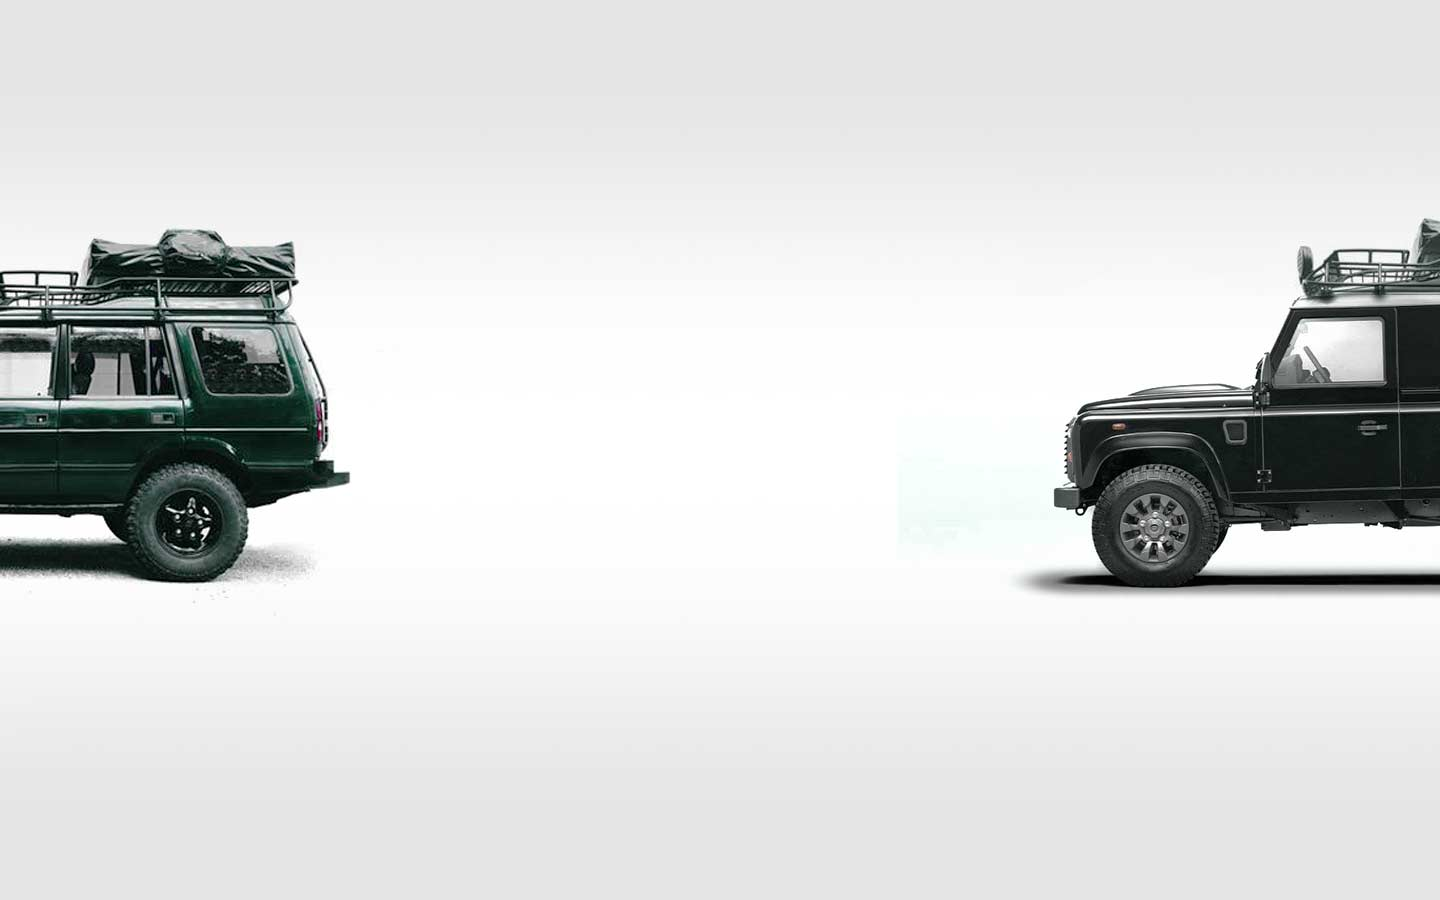
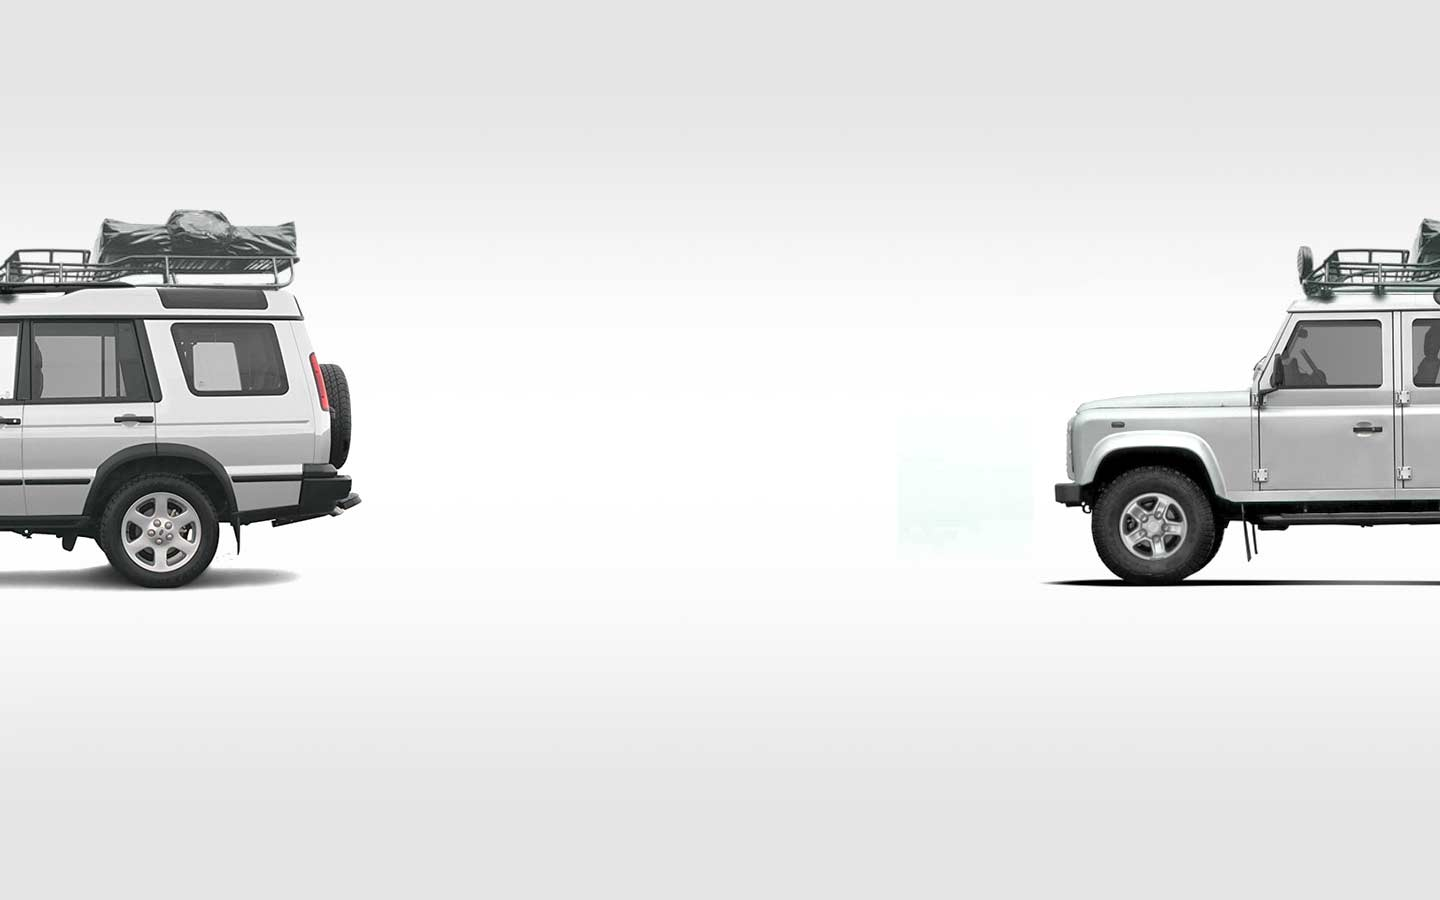
updates photos and prices

Changed region(s): [[0.0, 0.2178, 0.25, 0.6844], [0.6875, 0.3111, 1.0, 0.6844]]

diff --git a/index.html b/index.html
@@ -313,36 +313,46 @@
             
             <div class="row m-t-60">
               <div class="col-sm-3 text-center">
-                <h6 class="block-title hint-text m-b-0 ">LAND ROVER DISCOVERY</h6>
-                <img class="m-t-30 lazy" src="img/lr-disco.jpg" alt="" style="max-width:300px;">
+                <h6 class="block-title hint-text m-b-0 ">LAND ROVER <br />DISCOVERY 4.0 V8 Petrol</h6>
+                <img class="m-t-30 lazy" src="img/lr-disco-b.jpg" alt="" style="max-width:300px;">
                 <div>
-                  <h2 class="font-montserrat inline no-margin"><span class="fs-10">from</span> $180</h2>
+                  <h2 class="font-montserrat inline no-margin"><span class="fs-10">from</span> $200</h2>
                   <a class="btn btn-sm font-montserrat all-caps m-b-10 m-l-10" href="/book">Reserve</a>
                   <h5>Sleeps 2</h5>
-                  <h6>Perfect for more adventurous off-roading but still a very comfortable ride</h6>
+                  <h6>Comfortable and capable with V8 power, lots of fun</h6>
                 </div>
               </div>
               <div class="col-sm-3 text-center">
-                <h6 class="block-title hint-text m-b-0 ">LAND ROVER DEFENDER 90</h6>
-                <img class="m-t-30 lazy" src="img/lr-90b.jpg" alt="" style="max-width:300px;">
+                <h6 class="block-title hint-text m-b-0 ">LAND ROVER<br /> DISCOVERY 2.4 Diesel</h6>
+                <img class="m-t-30 lazy" src="img/lr-disco-c.jpg" alt="" style="max-width:300px;">
+                <div>
+                  <h2 class="font-montserrat inline no-margin"><span class="fs-10">from</span> $220</h2>
+                  <a class="btn btn-sm font-montserrat all-caps m-b-10 m-l-10" href="/book">Reserve</a>
+                  <h5>Sleeps 2</h5>
+                  <h6>Perfect for more adventurous tracks but still a very comfortable ride</h6>
+                </div>
+              </div>
+              <div class="col-sm-3 text-center">
+                <h6 class="block-title hint-text m-b-0 ">LAND ROVER<br /> DEFENDER 90</h6>
+                <img class="m-t-30 lazy" src="img/lr-90c.jpg" alt="" style="max-width:300px;">
                 <div>
                   <h2 class="font-montserrat inline no-margin"><span class="fs-10">from</span> $240</h2>
                   <a class="btn btn-sm font-montserrat all-caps m-b-10 m-l-10" href="/book">Reserve</a>
                   <h5>Sleeps 2</h5>
-                  <h6>Perfect for a couple</h6>
+                  <h6>The classic Defender, short wheel base - perfect for a couple</h6>
                 </div>
               </div>
               <div class="col-sm-3 text-center">
-                <h6 class="block-title hint-text m-b-0 ">LAND ROVER DEFENDER 110</h6>
-                <img class="m-t-30 lazy" src="img/lr-110c.jpg" alt="" style="max-width:300px;">
+                <h6 class="block-title hint-text m-b-0 ">LAND ROVER<br /> DEFENDER 110</h6>
+                <img class="m-t-30 lazy" src="img/lr-110d.jpg" alt="" style="max-width:300px;">
                 <div>
-                  <h2 class="font-montserrat inline no-margin"><span class="fs-10">from</span> $260</h2>
+                  <h2 class="font-montserrat inline no-margin"><span class="fs-10">from</span> $280</h2>
                   <a class="btn btn-sm font-montserrat all-caps m-b-10 m-l-10" href="/book">Reserve</a>
                   <h5>Sleeps 4</h5>
                   <h6>Perfect for a group</h6>
                   </div>
               </div>
-              <div class="col-sm-3 text-center">
+              <!-- <div class="col-sm-3 text-center">
                 <h6 class="block-title hint-text m-b-0 ">LAND ROVER 110 Pick Up</h6>
                 <img class="m-t-30 lazy" src="img/lr-110b.jpg" alt="" style="max-width:300px;">
                 <div>
@@ -351,7 +361,7 @@
                   <h5>Sleeps 4</h5>
                   <h6>Coming 2018</h6>
                   </div>
-              </div>
+              </div> -->
             </div>
           </div>
         </div>
